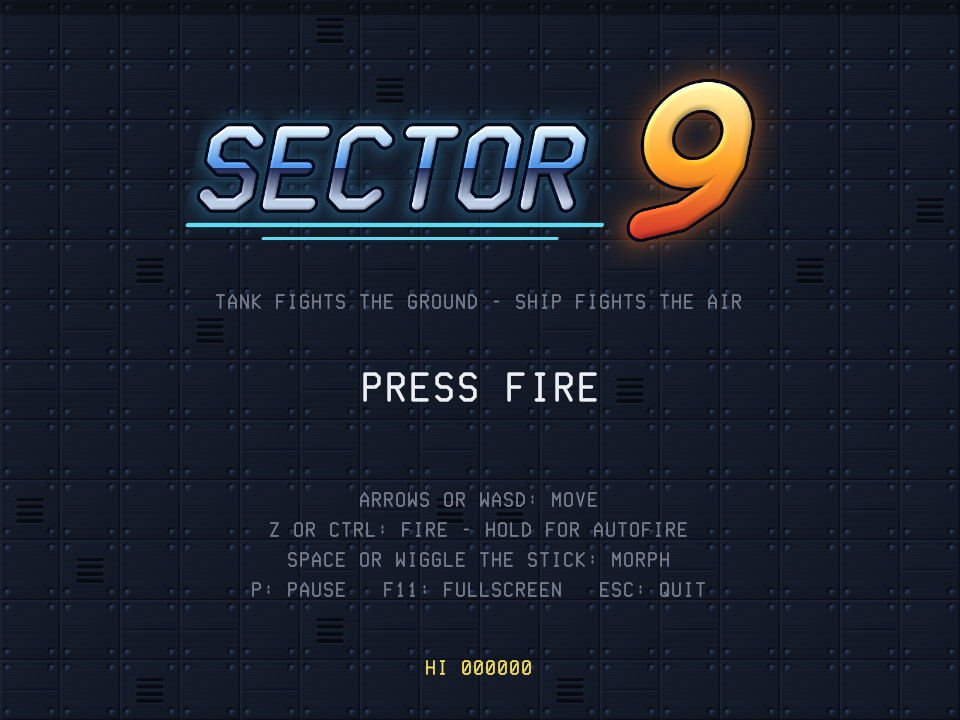
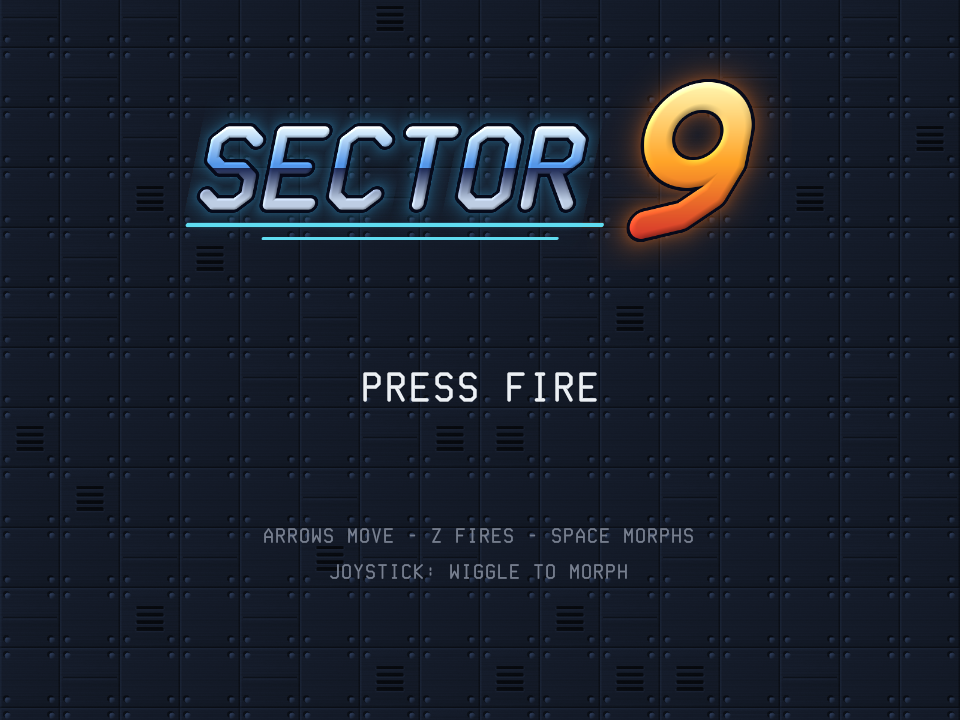
Trim the title screen
The title screen carried a tagline, four lines of key help and a high
score of zero.  The README already lists every key.

Keep two lines: the keys needed to start playing and the stick wiggle.
Show the high score only when there is one.

diff --git a/src/game.c b/src/game.c
@@ -1224,14 +1224,12 @@ void game_draw(void)
 		draw_tiles(1, cam);
 		gfx_rect(0, 0, SCREEN_W, SCREEN_H, (SDL_Color){ 0, 0, 0, 130 });
 		gfx_logo(14);
-		gfx_text(-1, 98, 1, GREY, "TANK FIGHTS THE GROUND - SHIP FIGHTS THE AIR");
 		if (blink)
 			gfx_text(-1, 124, 2, WHITE, "PRESS FIRE");
-		gfx_text(-1, 164, 1, GREY, "ARROWS OR WASD: MOVE");
-		gfx_text(-1, 174, 1, GREY, "Z OR CTRL: FIRE - HOLD FOR AUTOFIRE");
-		gfx_text(-1, 184, 1, GREY, "SPACE OR WIGGLE THE STICK: MORPH");
-		gfx_text(-1, 194, 1, GREY, "P: PAUSE   F11: FULLSCREEN   ESC: QUIT");
-		gfx_text(-1, 220, 1, YELLOW, "HI %06d", g.hiscore);
+		gfx_text(-1, 176, 1, GREY, "ARROWS MOVE - Z FIRES - SPACE MORPHS");
+		gfx_text(-1, 188, 1, GREY, "JOYSTICK: WIGGLE TO MORPH");
+		if (g.hiscore)
+			gfx_text(-1, 220, 1, YELLOW, "HI %06d", g.hiscore);
 		return;
 	}
 
